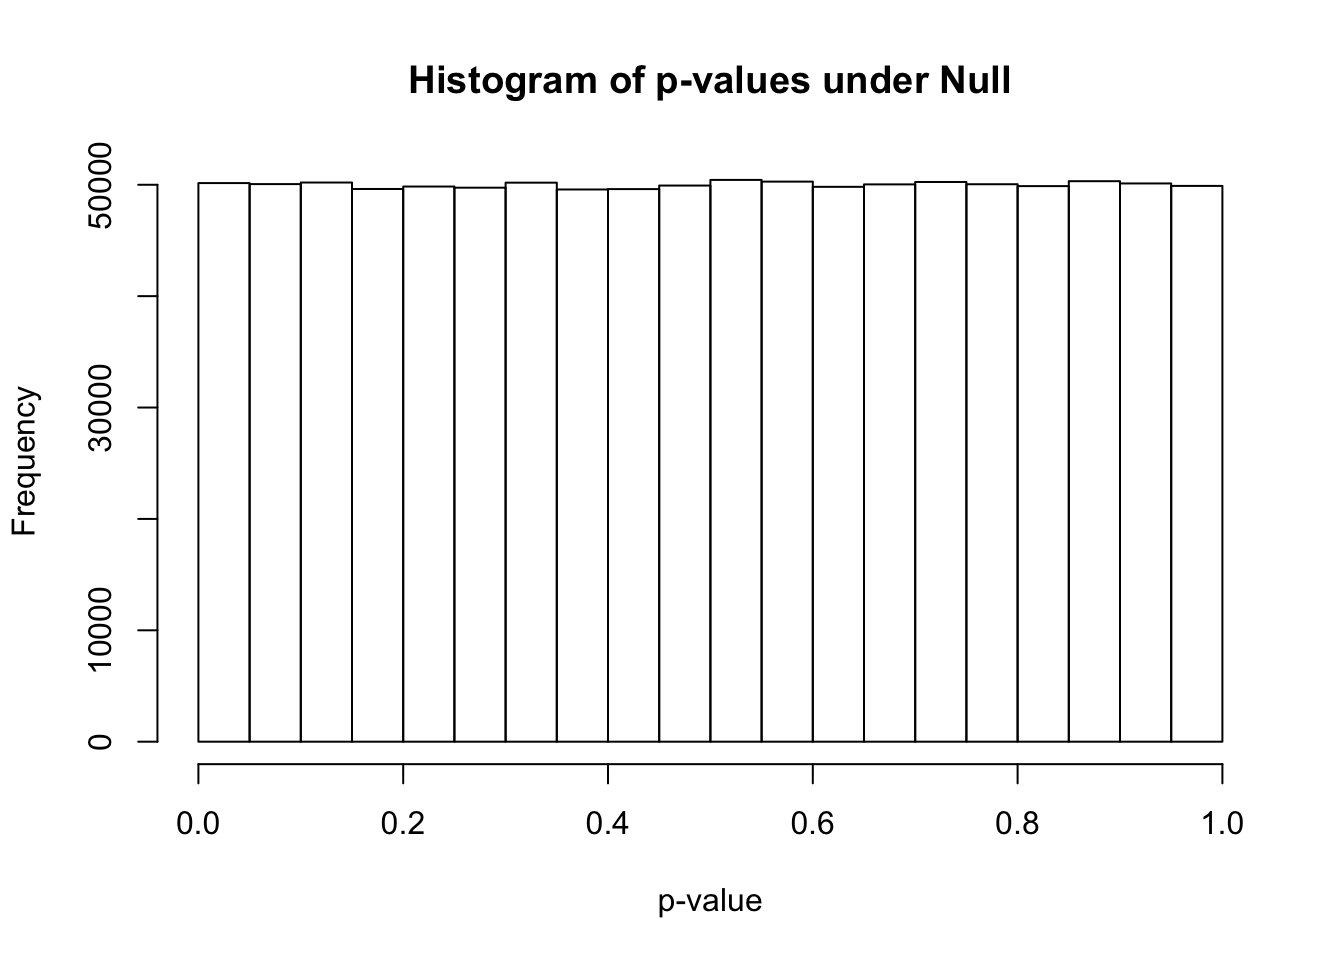
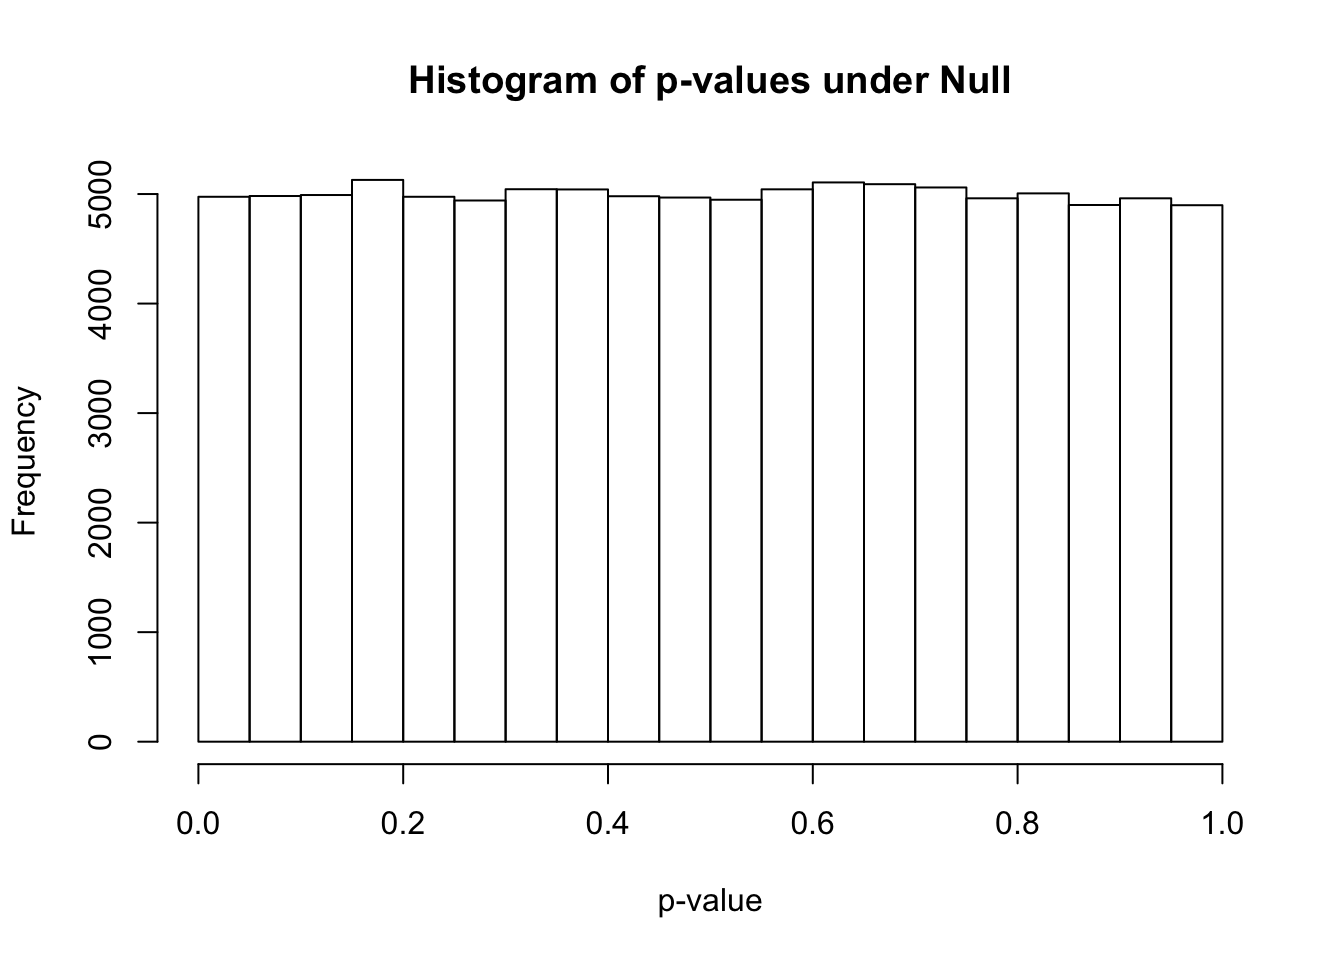
winners

diff --git a/docs/L3-multiple-testing.html b/docs/L3-multiple-testing.html
@@ -394,7 +394,7 @@ div.section {
 
 <p>
 <button type="button" class="btn btn-default btn-workflowr btn-workflowr-report" data-toggle="collapse" data-target="#workflowr-report">
-<span class="glyphicon glyphicon-list" aria-hidden="true"></span> workflowr <span class="glyphicon glyphicon-ok text-success" aria-hidden="true"></span>
+<span class="glyphicon glyphicon-list" aria-hidden="true"></span> workflowr <span class="glyphicon glyphicon-exclamation-sign text-danger" aria-hidden="true"></span>
 </button>
 </p>
 <div id="workflowr-report" class="collapse">
@@ -403,7 +403,7 @@ div.section {
 <a data-toggle="tab" href="#summary">Summary</a>
 </li>
 <li>
-<a data-toggle="tab" href="#checks"> Checks <span class="glyphicon glyphicon-ok text-success" aria-hidden="true"></span> </a>
+<a data-toggle="tab" href="#checks"> Checks <span class="glyphicon glyphicon-exclamation-sign text-danger" aria-hidden="true"></span> </a>
 </li>
 <li>
 <a data-toggle="tab" href="#versions">Past versions</a>
@@ -415,7 +415,7 @@ div.section {
 <strong>Last updated:</strong> 2020-01-14
 </p>
 <p>
-<strong>Checks:</strong> <span class="glyphicon glyphicon-ok text-success" aria-hidden="true"></span> 7 <span class="glyphicon glyphicon-exclamation-sign text-danger" aria-hidden="true"></span> 0
+<strong>Checks:</strong> <span class="glyphicon glyphicon-ok text-success" aria-hidden="true"></span> 6 <span class="glyphicon glyphicon-exclamation-sign text-danger" aria-hidden="true"></span> 1
 </p>
 <p>
 <strong>Knit directory:</strong> <code>hgen471/</code> <span class="glyphicon glyphicon-question-sign" aria-hidden="true" title="This is the local directory in which the code in this file was executed."> </span>
@@ -431,12 +431,12 @@ This reproducible <a href="http://rmarkdown.rstudio.com">R Markdown</a> analysis
 <div class="panel panel-default">
 <div class="panel-heading">
 <p class="panel-title">
-<a data-toggle="collapse" data-parent="#workflowr-checks" href="#strongRMarkdownfilestronguptodate"> <span class="glyphicon glyphicon-ok text-success" aria-hidden="true"></span> <strong>R Markdown file:</strong> up-to-date </a>
+<a data-toggle="collapse" data-parent="#workflowr-checks" href="#strongRMarkdownfilestronguncommittedchanges"> <span class="glyphicon glyphicon-exclamation-sign text-danger" aria-hidden="true"></span> <strong>R Markdown file:</strong> uncommitted changes </a>
 </p>
 </div>
-<div id="strongRMarkdownfilestronguptodate" class="panel-collapse collapse">
+<div id="strongRMarkdownfilestronguncommittedchanges" class="panel-collapse collapse">
 <div class="panel-body">
-<p>Great! Since the R Markdown file has been committed to the Git repository, you know the exact version of the code that produced these results.</p>
+<p>The R Markdown file has unstaged changes. To know which version of the R Markdown file created these results, you’ll want to first commit it to the Git repo. If you’re still working on the analysis, you can ignore this warning. When you’re finished, you can run <code>wflow_publish</code> to commit the R Markdown file and build the HTML.</p>
 </div>
 </div>
 </div>
@@ -503,10 +503,10 @@ This reproducible <a href="http://rmarkdown.rstudio.com">R Markdown</a> analysis
 <div class="panel panel-default">
 <div class="panel-heading">
 <p class="panel-title">
-<a data-toggle="collapse" data-parent="#workflowr-checks" href="#strongRepositoryversionstrongahrefhttpsgithubcomhakyimlabhgen471tree0c53a5b52ddd5afd2aa426bb8bb7cb2f80732e57targetblank0c53a5ba"> <span class="glyphicon glyphicon-ok text-success" aria-hidden="true"></span> <strong>Repository version:</strong> <a href="https://github.com/hakyimlab/hgen471/tree/0c53a5b52ddd5afd2aa426bb8bb7cb2f80732e57" target="_blank">0c53a5b</a> </a>
+<a data-toggle="collapse" data-parent="#workflowr-checks" href="#strongRepositoryversionstrongahrefhttpsgithubcomhakyimlabhgen471tree0734fadaab5c28f3390ae4413c621bda0d574be6targetblank0734fada"> <span class="glyphicon glyphicon-ok text-success" aria-hidden="true"></span> <strong>Repository version:</strong> <a href="https://github.com/hakyimlab/hgen471/tree/0734fadaab5c28f3390ae4413c621bda0d574be6" target="_blank">0734fad</a> </a>
 </p>
 </div>
[2 lines of base64/hex data omitted]
 <div class="panel-body">
 <p>
 Great! You are using Git for version control. Tracking code development and connecting the code version to the results is critical for reproducibility. The version displayed above was the version of the Git repository at the time these results were generated. <br><br> Note that you need to be careful to ensure that all relevant files for the analysis have been committed to Git prior to generating the results (you can use <code>wflow_publish</code> or <code>wflow_git_commit</code>). workflowr only checks the R Markdown file, but you know if there are other scripts or data files that it depends on. Below is the status of the Git repository when the results were generated:
@@ -514,6 +514,9 @@ Great! You are using Git for version control. Tracking code development and conn
 <pre><code>
 Ignored files:
     Ignored:    .Rproj.user/
+
+Unstaged changes:
+    Modified:   analysis/L3-multiple-testing.Rmd
 
 </code></pre>
 <p>
@@ -552,6 +555,23 @@ Message
 </tr>
 </thead>
 <tbody>
+<tr>
+<td>
+html
+</td>
+<td>
+<a href="https://rawcdn.githack.com/hakyimlab/hgen471/0734fadaab5c28f3390ae4413c621bda0d574be6/docs/L3-multiple-testing.html" target="_blank">0734fad</a>
+</td>
+<td>
+hakyimlab
+</td>
+<td>
+2020-01-15
+</td>
+<td>
+null p winners curse
+</td>
+</tr>
 <tr>
 <td>
 Rmd
@@ -667,6 +687,17 @@ Date
 <tbody>
 <tr>
 <td>
+<a href="https://github.com/hakyimlab/hgen471/blob/0734fadaab5c28f3390ae4413c621bda0d574be6/docs/figure/L3-multiple-testing.Rmd/unnamed-chunk-2-1.png" target="_blank">0734fad</a>
+</td>
+<td>
+hakyimlab
+</td>
+<td>
+2020-01-15
+</td>
+</tr>
+<tr>
+<td>
 <a href="https://github.com/hakyimlab/hgen471/blob/0c53a5b52ddd5afd2aa426bb8bb7cb2f80732e57/docs/figure/L3-multiple-testing.Rmd/unnamed-chunk-2-1.png" target="_blank">0c53a5b</a>
 </td>
 <td>
@@ -683,7 +714,7 @@ hakyimlab
 </div>
 <div id="show-pnull-has-uniform-distribution-when-phenotype-y-is-unrelated-to-genotype-x" class="section level2">
 <h2>show p(null) has uniform distribution when phenotype Y is unrelated to genotype X</h2>
-<pre class="r"><code>nsim = 1000000
+<pre class="r"><code>nsim = 100000
 
 
 nsam = 100
@@ -708,19 +739,89 @@ for(ss in 1:nsim)
 
 hist(pvec,xlab=&quot;p-value&quot;,main=&quot;Histogram of p-values under Null&quot;)</code></pre>
 <p><img src="figure/L3-multiple-testing.Rmd/unnamed-chunk-3-1.png" width="672" style="display: block; margin: auto;" /></p>
+<p>
+<button type="button" class="btn btn-default btn-xs btn-workflowr btn-workflowr-fig" data-toggle="collapse" data-target="#fig-unnamed-chunk-3-1">
+Past versions of unnamed-chunk-3-1.png
+</button>
+</p>
+<div id="fig-unnamed-chunk-3-1" class="collapse">
+<div class="table-responsive">
+<table class="table table-condensed table-hover">
+<thead>
+<tr>
+<th>
+Version
+</th>
+<th>
+Author
+</th>
+<th>
+Date
+</th>
+</tr>
+</thead>
+<tbody>
+<tr>
+<td>
+<a href="https://github.com/hakyimlab/hgen471/blob/0734fadaab5c28f3390ae4413c621bda0d574be6/docs/figure/L3-multiple-testing.Rmd/unnamed-chunk-3-1.png" target="_blank">0734fad</a>
+</td>
+<td>
+hakyimlab
+</td>
+<td>
+2020-01-15
+</td>
+</tr>
+</tbody>
+</table>
+</div>
+</div>
 </div>
 <div id="example-of-winners-curse-even-when-effect-size-is-0-we-get-larger-when-we-select-significant-snps" class="section level2">
 <h2>example of winner’s curse (even when effect size is 0, we get larger when we select significant SNPs)</h2>
 <pre class="r"><code>ind = which(pvec &lt; 0.0001)
 
-hist(abs(bvec[ind]),main=&#39;Selected estimated effect sizes&#39;)</code></pre>
-<p><img src="figure/L3-multiple-testing.Rmd/unnamed-chunk-4-1.png" width="672" style="display: block; margin: auto;" /></p>
-<pre class="r"><code>hist(abs(bvec),main=&#39;Unselected estimated effect sizes&#39;)</code></pre>
-<p><img src="figure/L3-multiple-testing.Rmd/unnamed-chunk-4-2.png" width="672" style="display: block; margin: auto;" /></p>
-<pre class="r"><code>df = tibble(effect = c(bvec[ind],bvec), type = c(rep(&quot;signif&quot;,length(ind)),rep(&quot;all&quot;,length(bvec)) ) )
+df = tibble(effect = c(bvec[ind],bvec), type = c(rep(&quot;signif&quot;,length(ind)),rep(&quot;all&quot;,length(bvec)) ) )
 
 ggplot(df, aes(abs(effect), fill=type)) + geom_density(alpha = 0.6, color=NA) + theme_bw(base_size = 15) + ggtitle(&quot;Winner&#39;s curse&quot;)</code></pre>
-<p><img src="figure/L3-multiple-testing.Rmd/unnamed-chunk-4-3.png" width="672" style="display: block; margin: auto;" /></p>
+<p><img src="figure/L3-multiple-testing.Rmd/unnamed-chunk-4-1.png" width="672" style="display: block; margin: auto;" /></p>
+<p>
+<button type="button" class="btn btn-default btn-xs btn-workflowr btn-workflowr-fig" data-toggle="collapse" data-target="#fig-unnamed-chunk-4-1">
+Past versions of unnamed-chunk-4-1.png
+</button>
+</p>
+<div id="fig-unnamed-chunk-4-1" class="collapse">
+<div class="table-responsive">
+<table class="table table-condensed table-hover">
+<thead>
+<tr>
+<th>
+Version
+</th>
+<th>
+Author
+</th>
+<th>
+Date
+</th>
+</tr>
+</thead>
+<tbody>
+<tr>
+<td>
+<a href="https://github.com/hakyimlab/hgen471/blob/0734fadaab5c28f3390ae4413c621bda0d574be6/docs/figure/L3-multiple-testing.Rmd/unnamed-chunk-4-1.png" target="_blank">0734fad</a>
+</td>
+<td>
+hakyimlab
+</td>
+<td>
+2020-01-15
+</td>
+</tr>
+</tbody>
+</table>
+</div>
+</div>
 <br>
 <p>
 <button type="button" class="btn btn-default btn-workflowr btn-workflowr-sessioninfo" data-toggle="collapse" data-target="#workflowr-sessioninfo" style="display: block;">
